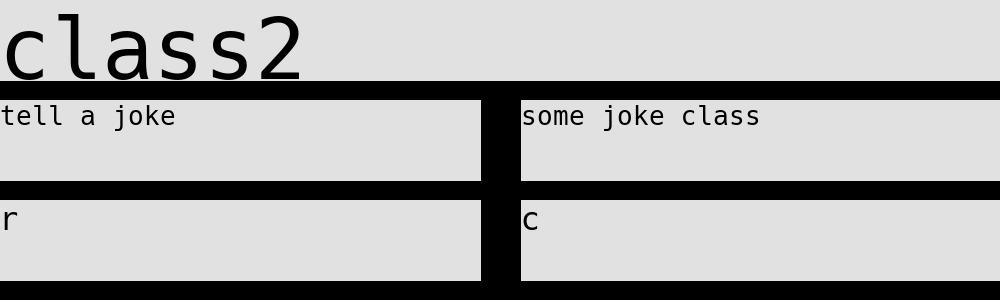
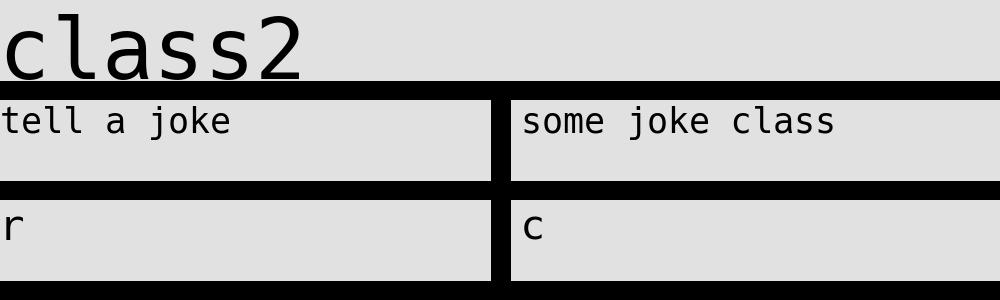
added_auto_line_break

diff --git a/CRC-generator.py b/CRC-generator.py
@@ -10,10 +10,19 @@ def vertical_merge(im1:Image, im2:Image):
     merged.paste(im2, (0, im1.height))
     return merged
 
+def cut(s:str):
+    for i in range(int((len(s)-(len(s)%30))/30)):
+        s_1=s[:(i*30+2*i)]
+        s_2=s[(i*30+2*i):]
+        s=s_1+"\n"+s_2
+    return s
+
+
 def fit_font_size(s:str, sizes:(int,int)):
+    s=cut(s)
     font_size=1
     font = ImageFont.truetype("Hack-Regular.ttf", size=1)
-    while font.getsize(s)[0]<sizes[0]-20 and font.getsize(s)[1]<sizes[1]-20:
+    while font.getsize(s)[0]<sizes[0]*(0.80) and font.getsize(s)[1]<sizes[1]*(0.80):
         font_size+=1
         font = ImageFont.truetype("Hack-Regular.ttf", font_size)
     return font
@@ -25,16 +34,16 @@ def create_crc_card(c:dict, s:str):
     class_head = Image.new('RGB', (1000,100), (225,225,225)) 
     draw = ImageDraw.Draw(class_head)
     draw.line((0, class_head.size[1])+class_head.size, width=40, fill= (0,0,0))
-    draw.text((0, 0),s,(0,0,0),fit_font_size(s, class_head.size))
+    draw.text((0, 0),cut(s),(0,0,0),fit_font_size(s, class_head.size))
     
     for i in c:
         r_c_line = Image.new('RGB', (1000,100), (225,225,225))
         draw2 = ImageDraw.Draw(r_c_line)
-        draw2.line((r_c_line.size[0]/2, 0)+(r_c_line.size[0]/2, r_c_line.size[1]), width=40, fill= (0,0,0))
+        draw2.line((r_c_line.size[0]/2, 0)+(r_c_line.size[0]/2, r_c_line.size[1]), width=20, fill= (0,0,0))
         draw2.line((0, r_c_line.size[1])+r_c_line.size, width=40, fill= (0,0,0))
         sizes=(r_c_line.size[0]/2, r_c_line.size[1]/2)
-        draw2.text((0, 0),i,(0,0,0),fit_font_size(i, sizes))
-        draw2.text((r_c_line.size[0]/2+21, 0),c[i],(0,0,0),fit_font_size(c[i], sizes))
+        draw2.text((0, 0),cut(i),(0,0,0),fit_font_size(i, sizes))
+        draw2.text((r_c_line.size[0]/2+21, 0),cut(c[i]),(0,0,0),fit_font_size(c[i], sizes))
         class_head=vertical_merge(class_head, r_c_line)
 
 

diff --git a/README.md b/README.md
@@ -4,7 +4,7 @@
 
 Modify the crc_classes.toml to change the source. 
 
-Add a new section for a new class. Then follow the format "responsibility"="collaborator"
+Add a new section for a new class. Then follow the format "responsibility"="collaborator \n another collaborator"
 
 Run the python file to generate jpgs. They should be stored in a folder named "crc".
 
@@ -13,7 +13,8 @@ Run the python file to generate jpgs. They should be stored in a folder named "c
 ```toml
 [class1]
 "responsibility" = "collaborator"
-"store some data" = "le_database"
+"store some data" = "le_database \n asdsad \n sadsad"
+"veeeeeeeeeeeeeeeeeeeeeeeerrrrrrrrrrrrrrrrrrrryloooooooooooooong"="dsa \n sad"
 ```
 
 <img src="crc\class1.jpg"  />
